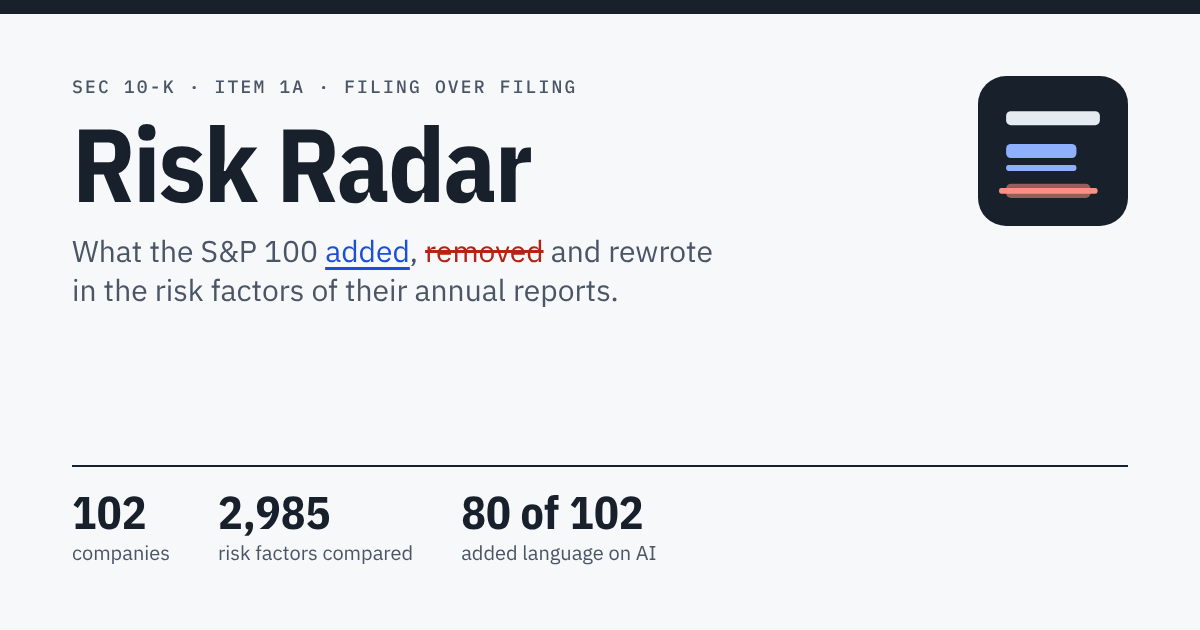
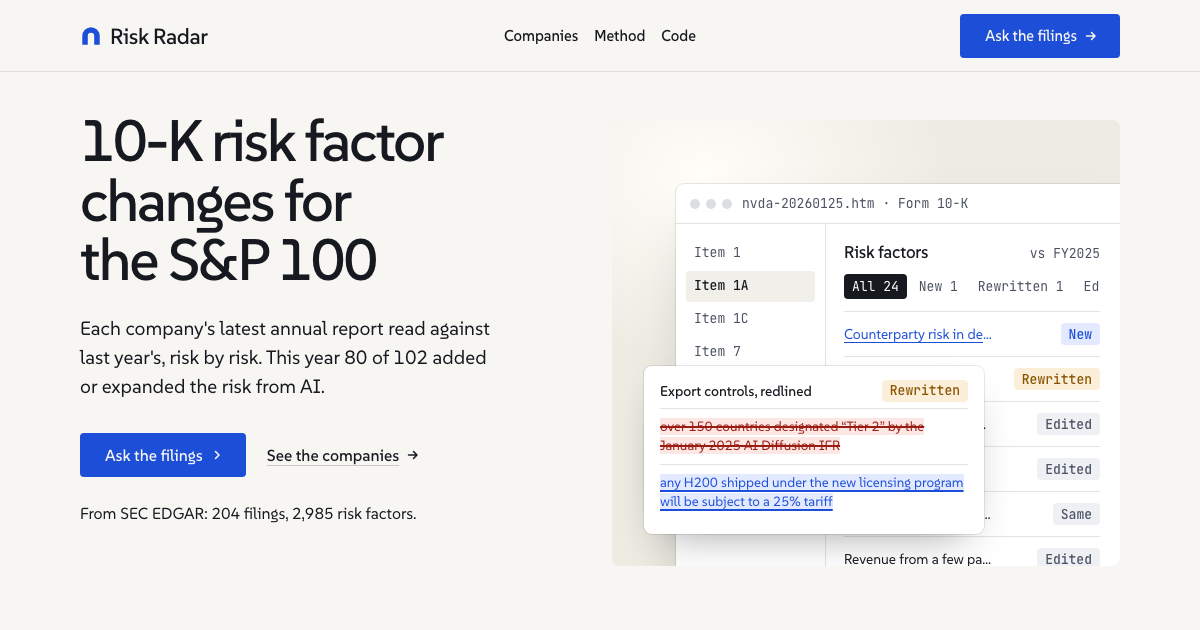
Fit the remaining screens: phone Ask, tablet board, section spacing; new share image

diff --git a/site/rr.css b/site/rr.css
@@ -32,7 +32,7 @@ del.rl { color: var(--del); background: var(--del-bg); text-decoration: line-thr
   box-shadow: 0 0 0 1px rgb(22 25 31 / .1), 0 30px 60px -30px rgb(22 25 31 / .35); }
 .fw__bar { display: flex; align-items: center; gap: 10px; height: 40px; padding: 0 14px; border-bottom: 1px solid var(--rule); font: 400 13px/1 var(--font-mono); color: #4a5160; white-space: nowrap; }
 .fw__dots { display: flex; gap: 6px; } .fw__dots i { width: 10px; height: 10px; border-radius: 50%; background: #dcdfe2; }
-.fw__body { display: grid; grid-template-columns: 150px 1fr; min-height: 560px; }
+.fw__body { display: grid; grid-template-columns: 150px minmax(0, 1fr); min-height: 560px; }
 .fw__side { padding: 14px 10px; border-right: 1px solid var(--rule); display: grid; align-content: start; gap: 2px; font: 400 13px/1.3 var(--font-mono); color: #4a5160; }
 .fw__side span { padding: 7px 8px; border-radius: 4px; }
 .fw__side span.is-on { background: #f1efe9; color: #16191f; font-weight: 500; }
@@ -40,8 +40,8 @@ del.rl { color: var(--del); background: var(--del-bg); text-decoration: line-thr
 .fw__head { display: flex; align-items: baseline; justify-content: space-between; gap: 12px; }
 .fw__head .fw__title { margin: 0; font: 500 17px/1.2 var(--font-text); letter-spacing: -0.01em; }
 .fw__head small { font: 400 13px/1 var(--font-mono); color: #4a5160; white-space: nowrap; }
-.fw__tabs { display: flex; gap: 4px; font: 400 13px/1 var(--font-mono); color: #4a5160; }
-.fw__tabs span { padding: 6px 9px; border-radius: 4px; } .fw__tabs span.is-on { background: #16191f; color: #fff; }
+.fw__tabs { display: flex; gap: 4px; overflow: hidden; font: 400 13px/1 var(--font-mono); color: #4a5160; }
+.fw__tabs span { padding: 6px 8px; border-radius: 4px; white-space: nowrap; } .fw__tabs span.is-on { background: #16191f; color: #fff; }
 .fw__rows { display: grid; border-top: 1px solid var(--rule); }
 .fw__row { display: grid; grid-template-columns: minmax(0, 1fr) 96px; align-items: center; gap: 12px; padding: 11px 0; border-bottom: 1px solid var(--rule); font-size: 14px; }
 .fw__row b { font-weight: 400; white-space: nowrap; overflow: hidden; text-overflow: ellipsis; }
@@ -158,5 +158,10 @@ del.rl { color: var(--del); background: var(--del-bg); text-decoration: line-thr
 .cmp__side { display: grid; gap: var(--s-4); align-content: start; }
 .cmp__side .cmp__note { margin: 0; font-size: 18px; line-height: 1.5; }
 @media (max-width: 1279px) { .srcs blockquote { font-size: 15px; } }
-@media (max-width: 639px) { .srcs li:nth-child(n+4) { display: none; } #ask { --hm: 2 } }
+@media (max-width: 639px) { .srcs li:nth-child(n+2) { display: none; } #ask { --hm: 2 } }
 .nw { white-space: nowrap; }
+@media (min-width: 1280px) { .rr-t { height: 58px; } }
+@media (min-width: 1024px) and (max-width: 1279px) { .rr-t { height: 38px; } .co-pick { min-height: 0; margin-top: var(--s-4); } .board__themes { margin-bottom: var(--s-3); } .struck__rows p { padding: 10px 0; } .esg-row { margin-top: var(--s-5); } }
+@media (max-width: 639px) { .rr-t { height: 56px; } }
+
+@media (min-width: 1280px) { .ask-a p { font-size: 20px; } .srcs blockquote { font-size: 18px; } .srcs li { padding: var(--s-5) 0; } .ask-app { gap: var(--s-6); padding: var(--s-7); } }

diff --git a/site/how.html b/site/how.html
@@ -92,7 +92,7 @@
           <li><span class="rows__name">Answer</span><span class="rows__value">an agent with 4 tools</span></li>
           <li><span class="rows__name">Guard</span><span class="rows__value">uncited claims blocked</span></li>
         </ol>
-        <div class="panel span-6 start-7"><div class="dg" data-diagram='{"layout":"lanes","alt":"A question goes to the agent, which searches the filings, compares the two years and checks every citation before answering.","input":{"label":"Question","icon":"ui:message-square"},"core":{"label":"Agent","icon":"ui:bot"},"lanes":[{"label":"Search","icon":"ui:search","done":true,"sub":"both years"},{"label":"Compare years","icon":"ui:git-compare","done":true,"sub":"the redline"},{"label":"Check citations","icon":"ui:shield-check","done":true,"sub":"or block"}]}'></div>
+        <div class="panel span-6 start-7"><div class="dg" data-diagram='{"layout":"lanes","alt":"A question goes to the agent, which searches the filings, compares the two years and checks every citation before answering.","input":{"label":"Ask","icon":"ui:message-square"},"core":{"label":"Agent","icon":"ui:bot"},"lanes":[{"label":"Search","icon":"ui:search","done":true,"sub":"both years"},{"label":"Compare years","icon":"ui:git-compare","done":true,"sub":"the redline"},{"label":"Check citations","icon":"ui:shield-check","done":true,"sub":"or block"}]}'></div>
         </div>
       </div>
     </div>
